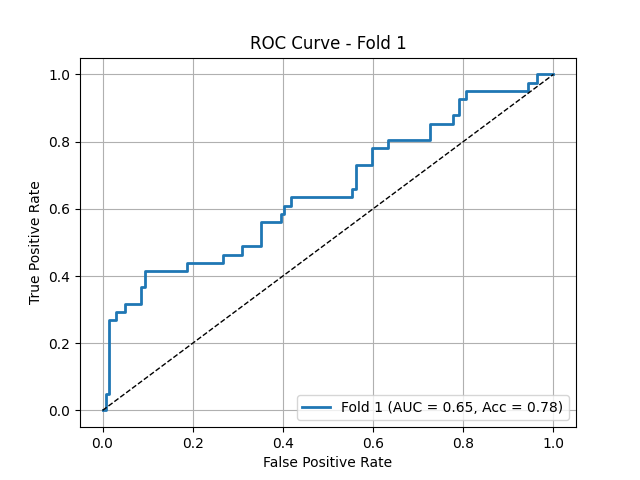
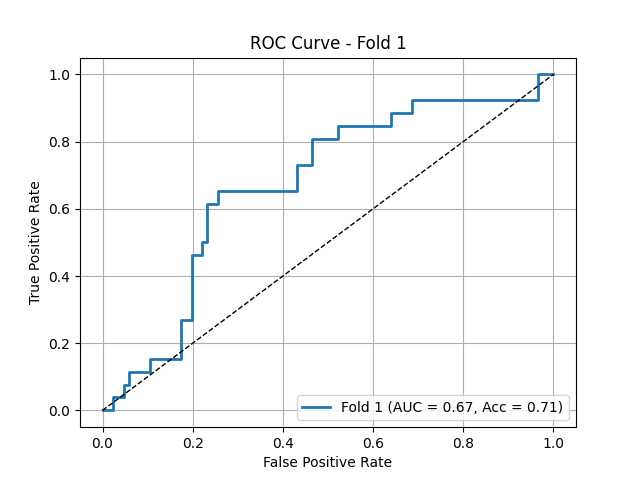
train val combined auc

diff --git a/train_fusion_model.py b/train_fusion_model.py
@@ -129,7 +129,7 @@ for fold in range(k_fold):
         train_y_true = torch.cat(train_y_true)
         train_y_probs = torch.cat(train_y_probs)
 
-        fpr_train, tpr_train, train_auc = calculate_auc(
+        train_auc = calculate_auc(
             train_y_true.cpu().numpy(), train_y_probs.cpu().numpy())
 
         wandb.log({f"train/roc_auc_fold_{fold}": train_auc, "epoch": epoch})
@@ -186,8 +186,8 @@ for fold in range(k_fold):
             best_val_auc = roc_auc
             best_model_state = model.state_dict()
 
-        if train_auc > best_val_auc:
-            best_val_auc = train_auc
+        if (train_auc*0.5 + roc_auc *0.5)  > best_val_auc:
+            best_val_auc = train_auc *0.5 + roc_auc *0.5
             best_model_state = model.state_dict()
 
         # if combined_score > best_combined_score:
